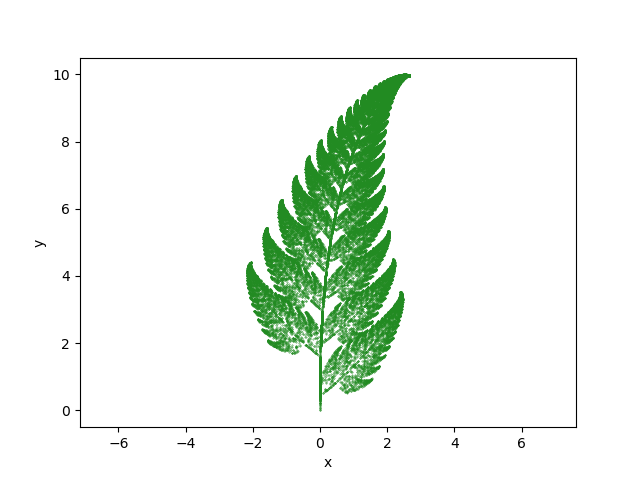
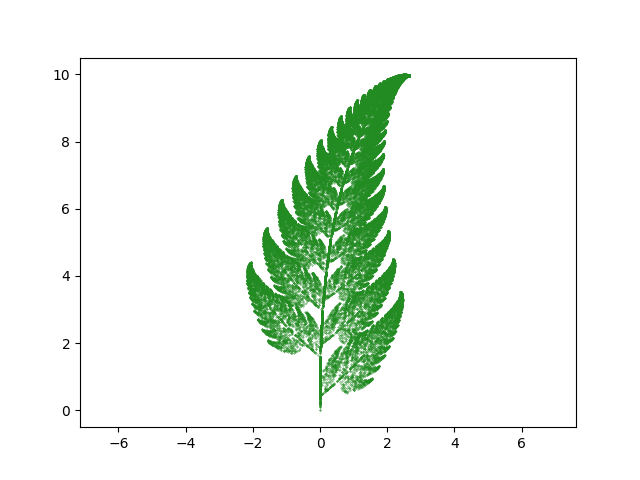
plot with colors

Changed region(s): [[0.4062, 0.2812, 0.625, 0.8438], [0.5, 0.9062, 0.5312, 0.9375]]

diff --git a/chaos_game.py b/chaos_game.py
@@ -114,7 +114,7 @@ def save_figures():
     for n, r, name in zip(corners, radii, names):
         c = ChaosGame(n, r)
         c.iterate(10000)
-        c.show()
+        c.show(color=True)
         c.savepng(f"{name}", color=True)
         plt.clf()
 
